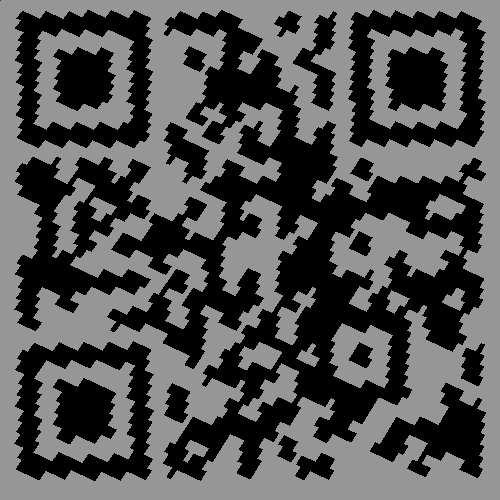
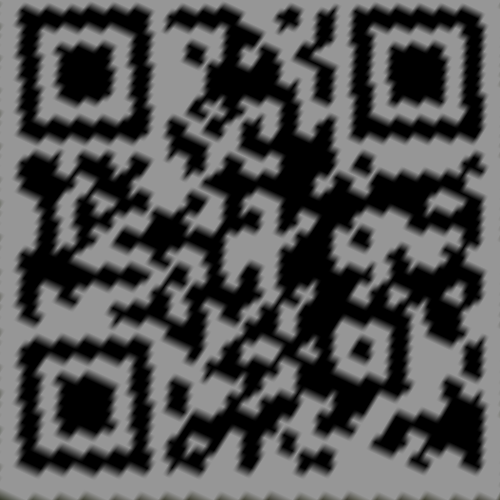
finish part4 & update utils.py (forming A method)

diff --git a/HW3/src/utils.py b/HW3/src/utils.py
@@ -19,15 +19,34 @@ def solve_homography(u, v):
         print('At least 4 points should be given')
 
     # TODO: 1.forming A
-    A = np.array([
-         [u[0][0], u[0][1], 1, 0, 0, 0, -(u[0][0] * v[0][0]), -(u[0][1] * v[0][0]), -v[0][0]],
-         [u[1][0], u[1][1], 1, 0, 0, 0, -(u[1][0] * v[1][0]), -(u[1][1] * v[1][0]), -v[1][0]],
-         [u[2][0], u[2][1], 1, 0, 0, 0, -(u[2][0] * v[2][0]), -(u[2][1] * v[2][0]), -v[2][0]],
-         [u[3][0], u[3][1], 1, 0, 0, 0, -(u[3][0] * v[3][0]), -(u[3][1] * v[3][0]), -v[3][0]],
-         [0, 0, 0, u[0][0], u[0][1], 1, -(u[0][0] * v[0][1]), -(u[0][1] * v[0][1]), -v[0][1]],
-         [0, 0, 0, u[1][0], u[1][1], 1, -(u[1][0] * v[1][1]), -(u[1][1] * v[1][1]), -v[1][1]],
-         [0, 0, 0, u[2][0], u[2][1], 1, -(u[2][0] * v[2][1]), -(u[2][1] * v[2][1]), -v[2][1]],
-         [0, 0, 0, u[3][0], u[3][1], 1, -(u[3][0] * v[3][1]), -(u[3][1] * v[3][1]), -v[3][1]]])
+
+    # [u[0], u[1], [1], [0, 0, 0], -(u[0] * v[0]), -(u[1] * v[0]), -v[0]]
+    upper_half = np.concatenate((
+        u,                                      # [u[0], u[1]]   
+        np.ones((N, 1), dtype=np.int),          # [0, 0, 0]
+        np.zeros((N, 3), dtype=np.int),         # [1]
+        (-(u[:, 0] * v[:, 0])).reshape(-1, 1),  # [-(u[0] * v[0])]
+        (-(u[:, 1] * v[:, 0])).reshape(-1, 1),  # [-(u[1] * v[0])]
+        (-v[:, 0]).reshape(-1, 1)), axis=1)     # [-v[0]]
+    # [[0, 0, 0], u[0], u[1], [1], -(u[0] * v[1]), -(u[1] * v[1]), -v[1]]
+    lower_half = np.concatenate((
+        np.zeros((N, 3), dtype=np.int),         # [0, 0, 0]
+        u,                                      # [u[0], u[1]]
+        np.ones((N, 1), dtype=np.int),          # [1]
+        (-(u[:, 0] * v[:, 1])).reshape(-1, 1),  # [-(u[0] * v[1])]
+        (-(u[:, 1] * v[:, 1])).reshape(-1, 1),  # [-(u[1] * v[1])]
+        (-v[:, 1]).reshape(-1, 1)), axis=1)     # [-v[1]]
+    A = np.concatenate((upper_half, lower_half), axis=0)
+
+    # A = np.array([
+    #      [u[0][0], u[0][1], 1, 0, 0, 0, -(u[0][0] * v[0][0]), -(u[0][1] * v[0][0]), -v[0][0]],
+    #      [u[1][0], u[1][1], 1, 0, 0, 0, -(u[1][0] * v[1][0]), -(u[1][1] * v[1][0]), -v[1][0]],
+    #      [u[2][0], u[2][1], 1, 0, 0, 0, -(u[2][0] * v[2][0]), -(u[2][1] * v[2][0]), -v[2][0]],
+    #      [u[3][0], u[3][1], 1, 0, 0, 0, -(u[3][0] * v[3][0]), -(u[3][1] * v[3][0]), -v[3][0]],
+    #      [0, 0, 0, u[0][0], u[0][1], 1, -(u[0][0] * v[0][1]), -(u[0][1] * v[0][1]), -v[0][1]],
+    #      [0, 0, 0, u[1][0], u[1][1], 1, -(u[1][0] * v[1][1]), -(u[1][1] * v[1][1]), -v[1][1]],
+    #      [0, 0, 0, u[2][0], u[2][1], 1, -(u[2][0] * v[2][1]), -(u[2][1] * v[2][1]), -v[2][1]],
+    #      [0, 0, 0, u[3][0], u[3][1], 1, -(u[3][0] * v[3][1]), -(u[3][1] * v[3][1]), -v[3][1]]])
 
     # TODO: 2.solve H with A
     _, _, vt = np.linalg.svd(A)
@@ -100,17 +119,17 @@ def warping(src, dst, H, ymin, ymax, xmin, xmax, direction='b'):
 
         # TODO: 6. assign to destination image with proper masking
         dst_x, dst_y = mesh_x, mesh_y
-        src_x, src_y = np.floor(trans_dst[:, 0]).astype(np.int), np.floor(trans_dst[:, 1]).astype(np.int)
-        dst[dst_y, dst_x] = src[src_y, src_x]
+        # src_x, src_y = np.floor(trans_dst[:, 0]).astype(np.int), np.floor(trans_dst[:, 1]).astype(np.int)
+        # dst[dst_y, dst_x] = src[src_y, src_x]
 
-        # x1, y1 = np.floor(trans_dst[:, 0]).astype(np.int), np.floor(trans_dst[:, 1]).astype(np.int)
-        # x2, y2 = np.clip(x1 + 1, None, w_src - 1), np.clip(y1 + 1, None, h_src - 1)
-        # weight_x, weight_y = trans_dst[:, 0] - x1, trans_dst[:, 1] - y1
+        x1, y1 = np.floor(trans_dst[:, 0]).astype(np.int), np.floor(trans_dst[:, 1]).astype(np.int)
+        x2, y2 = np.clip(x1 + 1, None, w_src - 1), np.clip(y1 + 1, None, h_src - 1)
+        weight_x, weight_y = trans_dst[:, 0] - x1, trans_dst[:, 1] - y1
 
-        # dst[dst_y, dst_x] = ((1.0 - weight_x) * (1.0 - weight_y)).reshape(-1, 1) * src[y1, x1] + \
-        #                     ((weight_x) * (1.0 - weight_y)).reshape(-1, 1) * src[y1, x2] + \
-        #                     ((1.0 - weight_x) * (weight_y)).reshape(-1, 1) * src[y2, x1] + \
-        #                     ((weight_x) * (weight_y)).reshape(-1, 1) * src[y2, x2]
+        dst[dst_y, dst_x] = ((1.0 - weight_x) * (1.0 - weight_y)).reshape(-1, 1) * src[y1, x1] + \
+                            ((weight_x) * (1.0 - weight_y)).reshape(-1, 1) * src[y1, x2] + \
+                            ((1.0 - weight_x) * (weight_y)).reshape(-1, 1) * src[y2, x1] + \
+                            ((weight_x) * (weight_y)).reshape(-1, 1) * src[y2, x2]
 
     elif direction == 'f':
         # TODO: 3.apply H to the source pixels and retrieve (u,v) pixels, then reshape to (ymax-ymin),(xmax-xmin)

diff --git a/HW3/src/part4.py b/HW3/src/part4.py
@@ -19,7 +19,8 @@ def panorama(imgs):
     dst = np.zeros((h_max, w_max, imgs[0].shape[2]), dtype=np.uint8)
     dst[:imgs[0].shape[0], :imgs[0].shape[1]] = imgs[0]
     last_best_H = np.eye(3)
-    out = None
+
+    orb = cv2.ORB_create()
 
     # for all images to be stitched:
     for idx in tqdm(range(len(imgs)-1)):
@@ -27,14 +28,58 @@ def panorama(imgs):
         im2 = imgs[idx + 1]
 
         # TODO: 1.feature detection & matching
+        kp1, des1 = orb.detectAndCompute(im1,None)
+        kp2, des2 = orb.detectAndCompute(im2,None)
+
+        kp1_array, kp2_array = np.array([kp.pt for kp in kp1]).astype(np.int), np.array([kp.pt for kp in kp2]).astype(np.int)
+
+        # create BFMatcher object
+        bf = cv2.BFMatcher(cv2.NORM_HAMMING, crossCheck=True)
+
+        # Match descriptors.
+        matches = bf.match(des1,des2)
+        # Sort them in the order of their distance.
+        # matches = sorted(matches, key = lambda x:x.distance)
+
+        points1, points2 = kp1_array[[match.queryIdx for match in matches]], kp2_array[[match.trainIdx for match in matches]]
 
         # TODO: 2. apply RANSAC to choose best H
+        probability = 0.99
+        outliner_ratio = 0.5
+        sample_points = 6
+        threshold = 0.9
+        min_outliner_count = len(matches)
+        N = int(np.log((1 - probability)) / np.log((1 - (1 - outliner_ratio) ** sample_points)))
+
+        for _ in range(N):
+            random_idx = np.random.randint(0, len(matches), sample_points)
+            H = solve_homography(points2[random_idx], points1[random_idx])
+
+            one = np.ones((points2.shape[0], 1), dtype=np.int)
+            points = np.concatenate((points2, one), axis=1)
+            transformed_points = np.transpose(np.dot(H, np.transpose(points)))
+            transformed_points /= transformed_points[:, 2].reshape(-1, 1)
+
+            x = points1[:, 0]
+            y = points1[:, 1]
+            x_transformed = transformed_points[:, 0]
+            y_transformed = transformed_points[:, 1]
+
+            distance = np.sqrt((x - x_transformed) ** 2 + (y - y_transformed) ** 2)
+            curr_outliner_count = len(np.where(distance > threshold)[0])
+
+            if curr_outliner_count < min_outliner_count:
+                RANSAC_best_H = H
+                min_outliner_count = curr_outliner_count
+
 
         # TODO: 3. chain the homographies
+        last_best_H = np.dot(last_best_H, RANSAC_best_H)
 
         # TODO: 4. apply warping
+        warping(im2, dst, last_best_H, 0, im2.shape[0], 0, w_max, 'b')
 
-    return out 
+    return dst
 
 if __name__ == "__main__":
     # ================== Part 4: Panorama ========================

diff --git a/HW3/src/part3.py b/HW3/src/part3.py
@@ -11,13 +11,13 @@ if __name__ == '__main__':
     corners1 = np.array([[429, 337], [517, 314], [570, 361], [488, 380]])
     corners2 = np.array([[346, 196], [437, 161], [483, 198], [397, 229]])
     h, w, c = (500, 500, 3)
-    
+
 
     # TODO: call solve_homography() & warping
     dst = np.zeros((h, w, c))
     H = solve_homography(corners1, np.array([[0, 0], [w, 0], [w, h], [0, h]]))
     output3_1 = warping(secret1, dst, H, 0, h, 0, w, 'b')
-    
+
     dst = np.zeros((h, w, c))
     H = solve_homography(corners2, np.array([[0, 0], [w, 0], [w, h], [0, h]]))
     output3_2 = warping(secret2, dst, H, 0, h, 0, w, 'b')

diff --git a/HW3/src/part2.py b/HW3/src/part2.py
@@ -33,7 +33,6 @@ def planarAR(REF_IMAGE_PATH, VIDEO_PATH):
             corners, ids, _ = aruco.detectMarkers(frame, arucoDict, parameters=arucoParameters)
             # TODO: 2.find homograpy
             # function call to solve_homography()
-            # print(np.array(corners).reshape(4, 2))
             if len(ids) > 1:
                 corners = corners[0]
             corners = np.array(corners).reshape(4, 2).astype(np.int)
